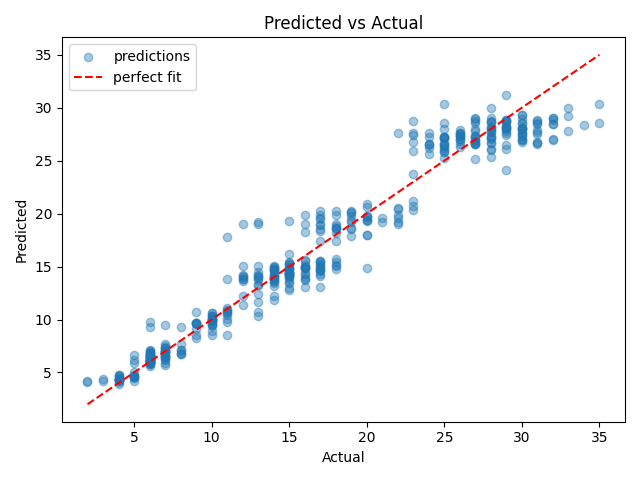
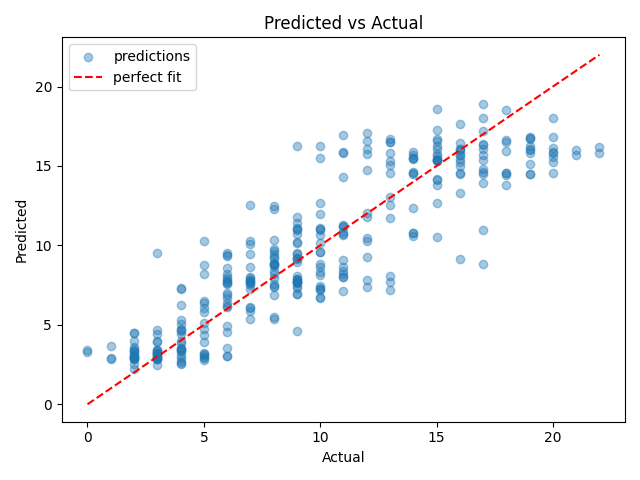
organize data preparation and random tree model

diff --git a/src/model/forest_models.py b/src/model/forest_models.py
@@ -15,50 +15,29 @@ from sklearn.impute import SimpleImputer
 
 # Models
 from sklearn.ensemble import RandomForestRegressor
-from sklearn.ensemble import GradientBoostingRegressor
+from sklearn.model_selection import GridSearchCV
+
 
 # Metrics
-from sklearn.metrics import mean_squared_error, mean_absolute_error, r2_score
+from sklearn.metrics import mean_squared_error, mean_absolute_error, r2_score, root_mean_squared_error
 
 from sklearn.model_selection import TimeSeriesSplit  # for future
 
 import holidays
 
-csv_path = "spiges_meteo_joined.csv"
+from model_preparation import (
+    train_features, train_target,
+    val_features,   val_target,
+    test_features,  test_target,
+)
+
+X_train = train_features
+y_train = train_target
+
+X_val = val_features
+y_val = val_target
+
 out_path = "results/random_forest/"
-os.makedirs(out_path, exist_ok=True)
-
-FEATURE_COLS = [
-    "month", "day_of_week", "is_weekend", "is_winter", "is_summer", "is_holidays",
-    "notfall_lag1", "notfall_lag7", "notfall_roll7",
-    "pct_elderly", "mean_nems",
-    "temperature_avg", "temperature_max", "temperature_min",
-]
-
-TARGET_COL = "total_admissions"
-
-df = pd.read_csv(csv_path, parse_dates=["date"])
-df["is_holidays"] = df.apply(lambda row: holidays.Switzerland(subdiv=row["kanton_hospital"], years=row["year"]).get(row["date"]) is not None, axis=1)
-df = df.sort_values("date").reset_index(drop=True)
-df = df.dropna(subset=[TARGET_COL] + FEATURE_COLS)
-
-df["is_weekend"] = df["is_weekend"].astype("category")
-df["is_winter"] = df["is_winter"].astype("category")
-df["is_summer"] = df["is_summer"].astype("category")
-df["is_holidays"] = df["is_holidays"].astype("category")
-
-
-n = len(df)
-train_end = int(n * 0.80)
-
-train = df.iloc[:train_end]
-val   = df.iloc[train_end:]
-
-X_train = train[FEATURE_COLS].reset_index(drop=True)
-y_train   = train[TARGET_COL].reset_index(drop=True)
-
-X_val   = val[FEATURE_COLS].reset_index(drop=True)
-y_val     = val[TARGET_COL].reset_index(drop=True)
 
 
 # ── Preprocessing pipeline ─────────────────────────────────────────────────
@@ -94,7 +73,7 @@ results = {}  # in case we want to run other models, or do cv, etc.
 
 rf = Pipeline([
     ('pre', preprocessor),
-    ('reg', RandomForestRegressor(n_estimators=200, random_state=10))
+    ('reg', RandomForestRegressor(n_estimators=100, random_state=10))
 ])
 
 rf.fit(X_train, y_train)
@@ -102,6 +81,7 @@ y_pred_rf = rf.predict(X_val)
 results["rf"] = {
         'mse': mean_squared_error(y_val, y_pred_rf),
         'mae': mean_absolute_error(y_val, y_pred_rf),
+        'rmse': root_mean_squared_error(y_val, y_pred_rf),
         'r2': r2_score(y_val, y_pred_rf)
     }
 pd.DataFrame([results["rf"]]).to_csv(os.path.join(out_path, "metrics.csv"), index=False)

diff --git a/src/model/model_preparation.py b/src/model/model_preparation.py
@@ -16,7 +16,11 @@ df['is_holidays'] = df.apply(lambda row: holidays.Switzerland(subdiv=row['kanton
 ############## Manage data ############## 
 
 df['day_of_week'] = df['day_of_week'].astype('category')
-df['is_holidays'] = df['is_holidays'].astype(int)
+df["is_weekend"] = df["is_weekend"].astype("category")
+df["is_winter"] = df["is_winter"].astype("category")
+df["is_summer"] = df["is_summer"].astype("category")
+df['is_holidays'] = df['is_holidays'].astype(int) # transform the True/False into 0/1
+df["is_holidays"] = df["is_holidays"].astype("category")
 
 # Create lag for pct_elderly and mean_age columns
 df = df.sort_values(['kanton_hospital', 'date'])

diff --git a/src/model/linear_model.py b/src/model/linear_model.py
@@ -4,7 +4,7 @@ from sklearn.linear_model import Ridge
 from sklearn.preprocessing import StandardScaler
 from sklearn.metrics import mean_absolute_error, root_mean_squared_error
 
-from src.model.model_preparation import (
+from model_preparation import (
     train_features, train_target,
     val_features,   val_target,
     test_features,  test_target,